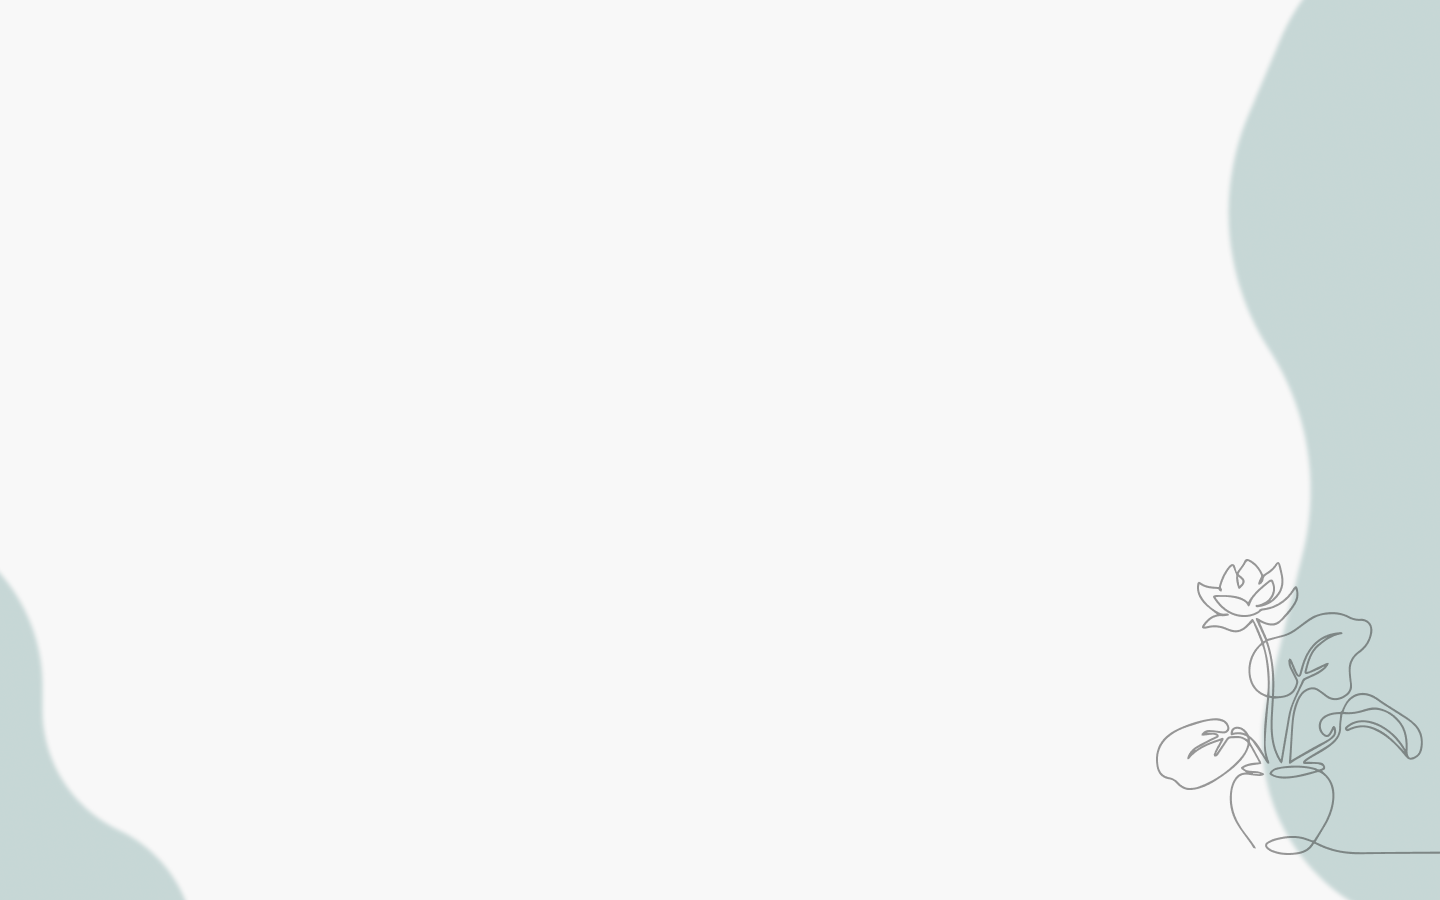
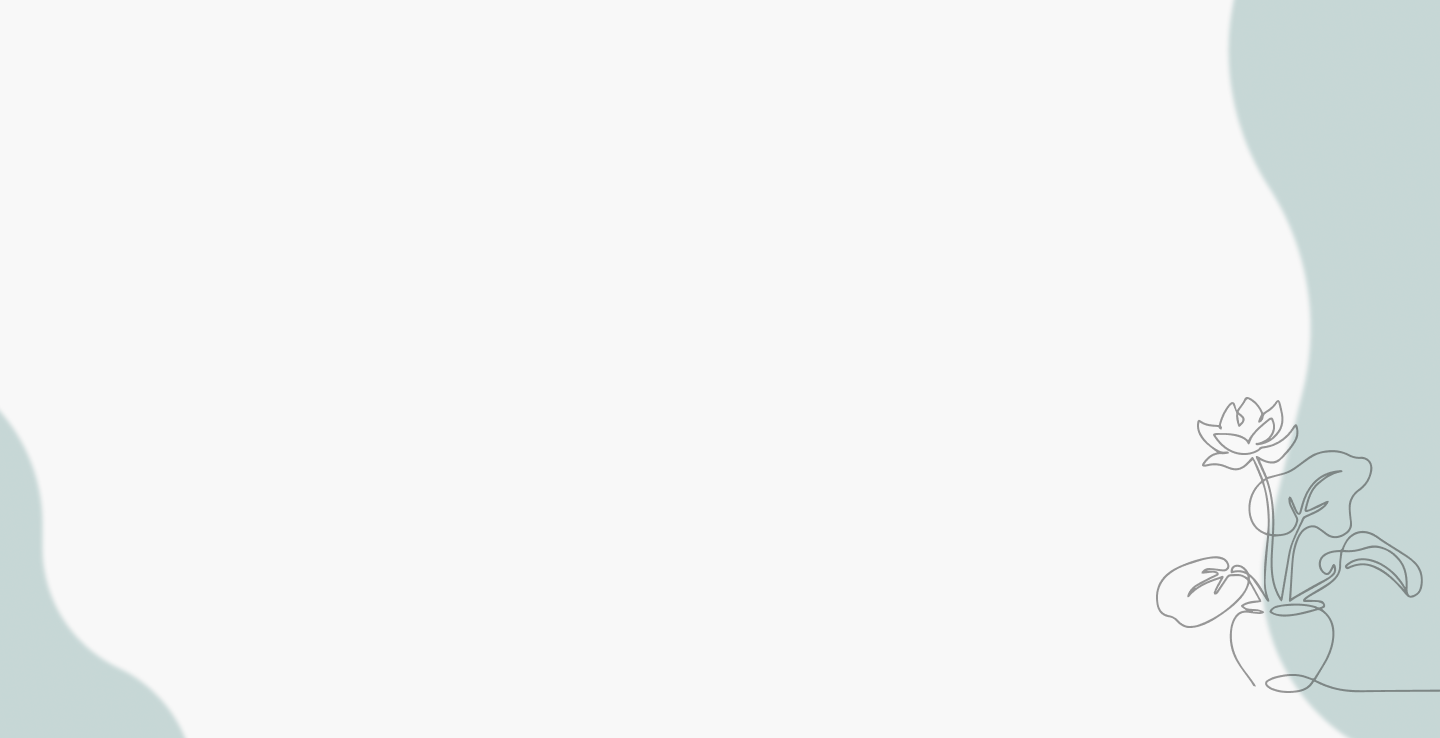
se escalan mejor fondos de Home y Conocenos

diff --git a/src/App.css b/src/App.css
@@ -14,7 +14,7 @@
     background-image: url("../public/Inicio.png");
     background-repeat: no-repeat;
     background-size: cover;
-    min-height: 400vh;
+    min-height: 360vh;
     display: flex;
     flex-direction: column;
   }
@@ -36,7 +36,7 @@
     background-image: url("../public/Servicios\ lista.png");
     background-repeat: no-repeat;
     background-size: cover;
-    min-height: 100vh;
+    min-height: 100vh;    
     display: flex;
     flex-direction: column;
   }
